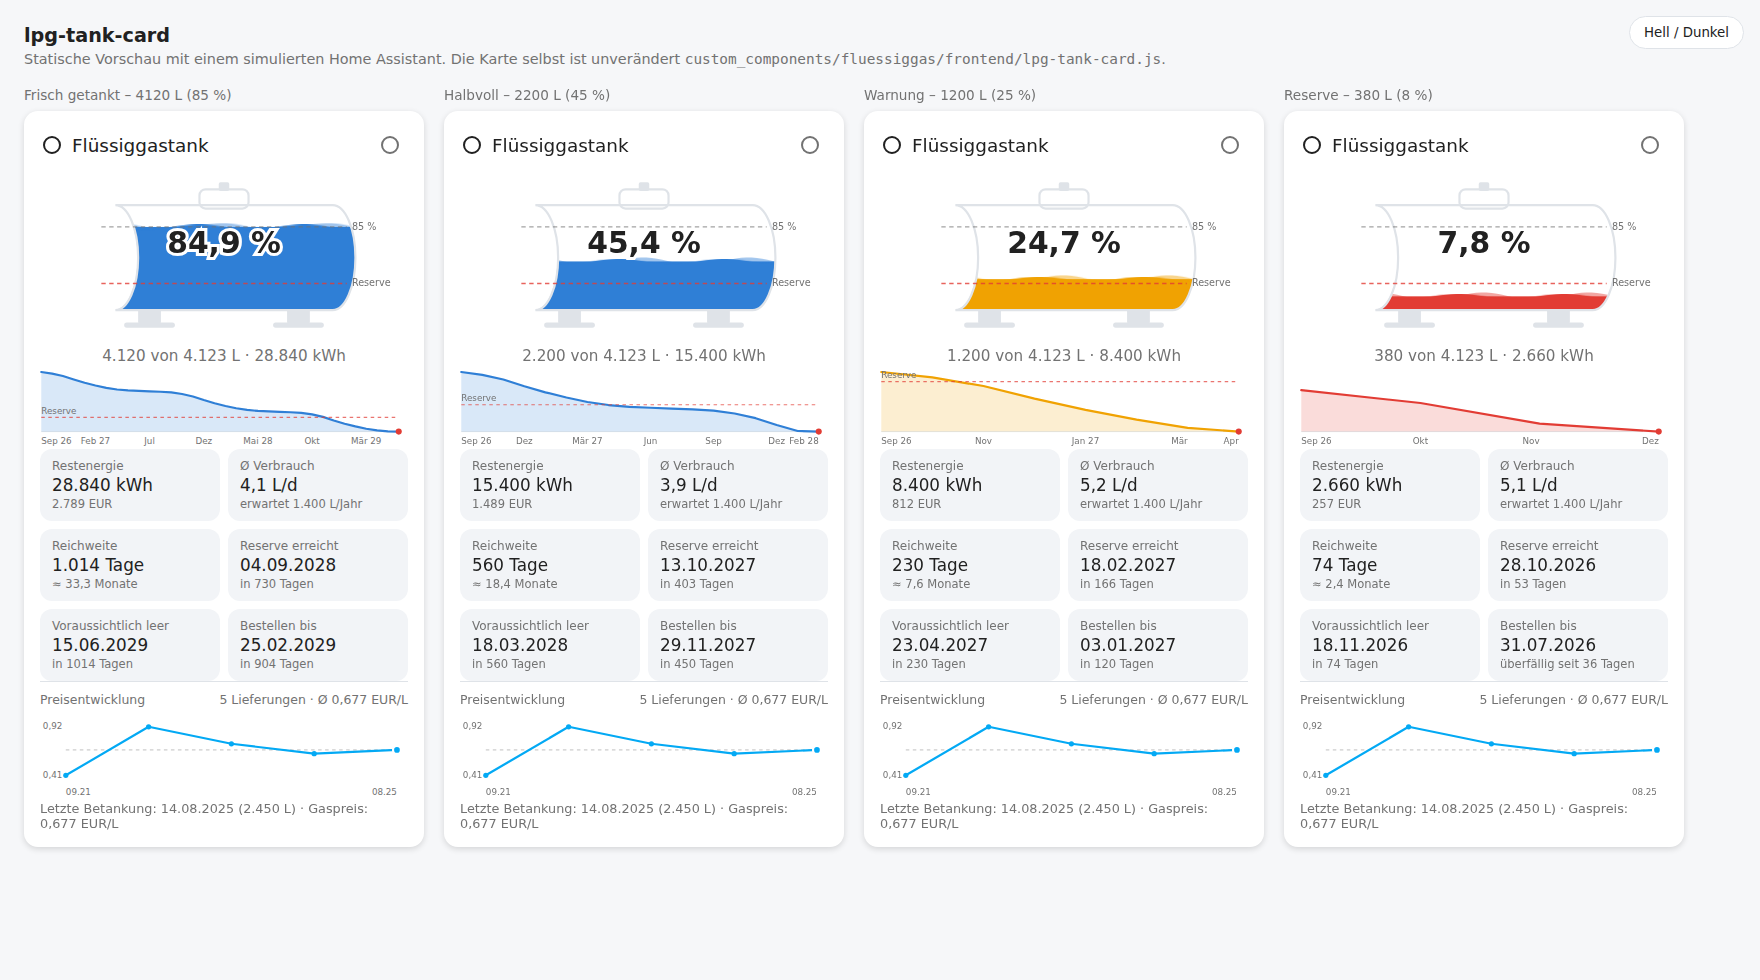
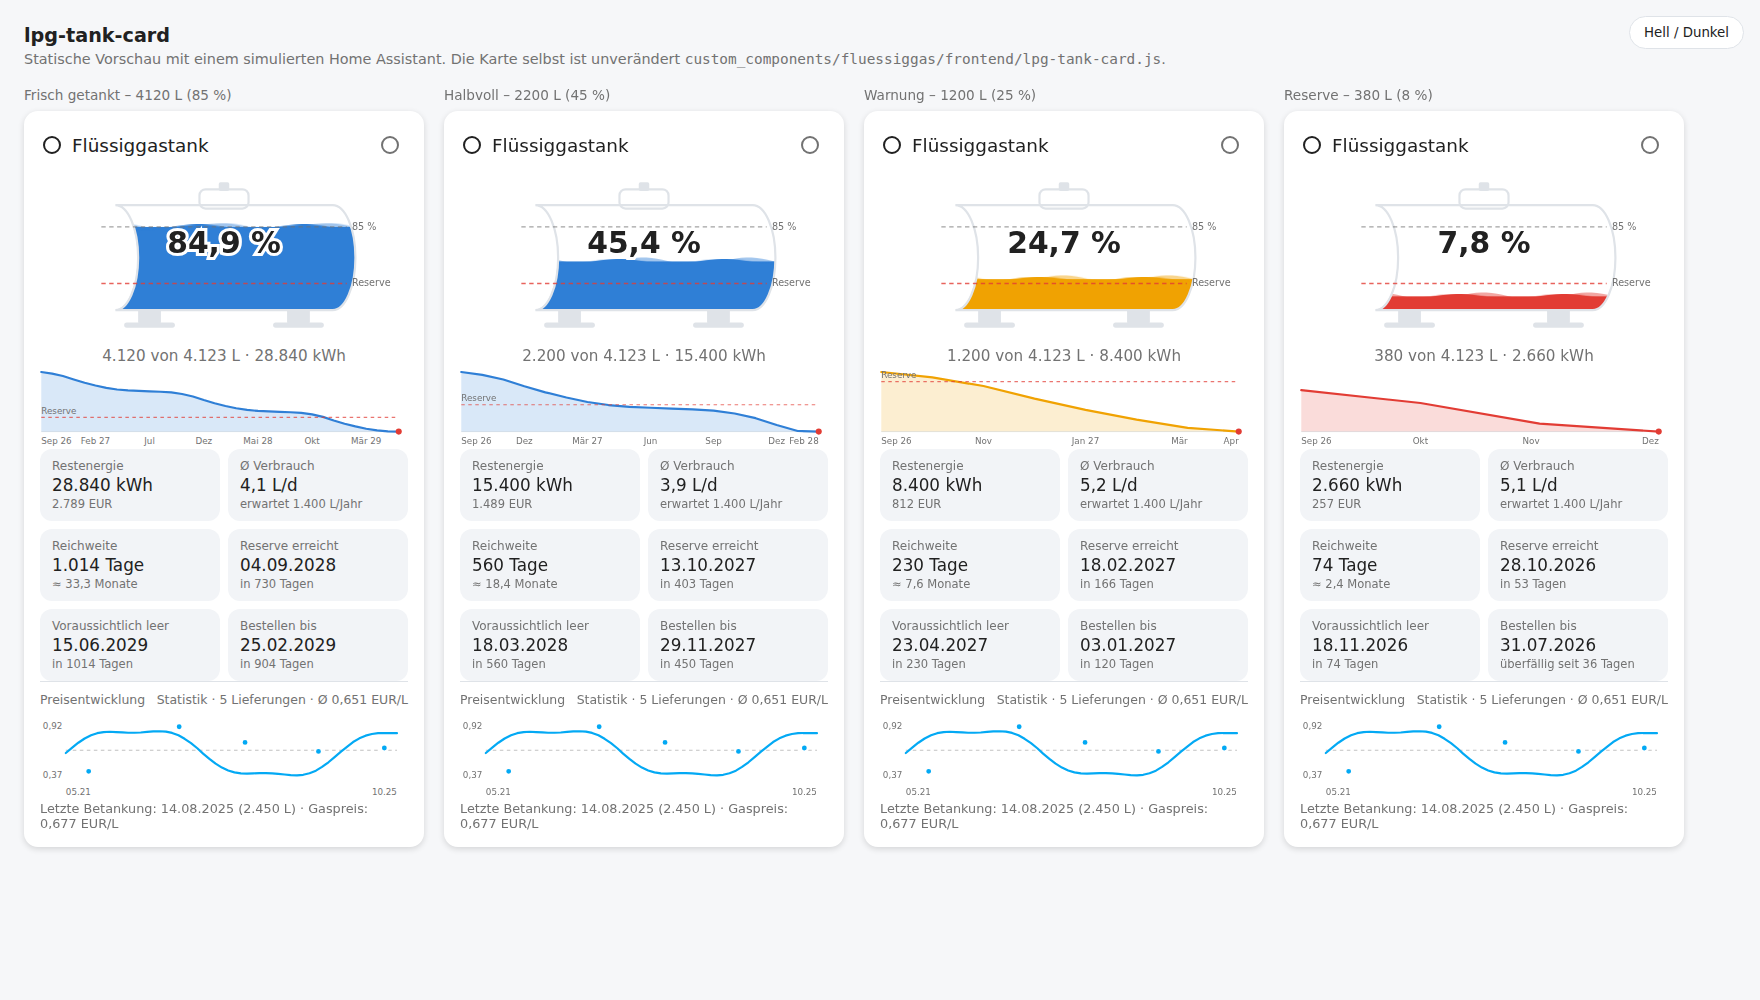
Preisverlauf wahlweise aus vorhandener Langzeitstatistik
Neues optionales Feld "Preis-Statistik": ein Sensor, dessen Langzeitstatistik
den Preisverlauf in der Karte liefert - etwa der, den man ohnehin fürs
Energiedashboard pflegt. Damit muss niemand bei null anfangen, nur weil die
Integration neu ist.

Gelesen wird ausschließlich; ein Sensor lässt sich in Home Assistant nicht
setzen, weder von außen noch von hier. Den Preis selbst setzt weiterhin der
Preis-Helfer, der eine input_number oder number sein muss. Beide Felder sind
unabhängig voneinander optional.

Die Abfrage läuft im Koordinator, nicht im Frontend: Sie hängt am selben
Sechs-Stunden-Takt wie das Monatsprofil, weil beides teure Statistikabfragen
sind, und liefert das Ergebnis als Attribut am Preissensor. Die Karte bleibt
damit frei von eigenen Datenbankzugriffen. Steht die Statistik in EUR/m³, wird
mit dem kalibrierten Faktor in EUR/L umgerechnet; die Einheit kommt aus den
Statistik-Metadaten, nicht aus der Anzeige.

Das Diagramm hat jetzt eine echte Zeitachse statt gleichmäßiger Abstände. Die
Betankungen liegen als Punkte auf der Linie - man sieht damit, ob man über oder
unter dem Verlauf gekauft hat. Ohne Statistik-Sensor bleibt es beim Verlauf aus
den Lieferungen, das Nachtragen alter Lieferungen funktioniert unverändert.

Claude-Session: https://claude.ai/code/session_0116cQYFWHYwN5ejBXDYbpBk

diff --git a/custom_components/fluessiggas/frontend/lpg-tank-card.js b/custom_components/fluessiggas/frontend/lpg-tank-card.js
@@ -774,50 +774,75 @@ class LpgTankCard extends HTMLElement {
     const block = this._el.preisblock;
     const svg = this._el.preise;
     if (!block || !svg) return;
+    const c = this._config;
 
-    const historie = (letzte && letzte.attributes && letzte.attributes.lieferungen) || [];
-    const punkte = historie
-      .filter((l) => l && l.preis_pro_liter != null && !isNaN(parseFloat(l.preis_pro_liter)))
-      .map((l) => ({ datum: this._parse(l.datum), preis: parseFloat(l.preis_pro_liter),
-                     liter: l.liter }))
-      .filter((l) => l.datum);
+    // Linie: bevorzugt die Langzeitstatistik des konfigurierten Preis-Sensors,
+    // sonst die eigenen Lieferungen. Die Betankungen liegen als Punkte oben
+    // drauf - man sieht damit, ob man über oder unter dem Verlauf gekauft hat.
+    const attr = (this._zustand("gaspreis") || {}).attributes || {};
+    const statistik = (attr.preisverlauf || [])
+      .map((p) => ({ t: this._monat(p.monat), preis: parseFloat(p.preis) }))
+      .filter((p) => p.t && !isNaN(p.preis));
 
-    if (!this._config.preisverlauf || punkte.length < 2) { block.hidden = true; return; }
+    const lieferungen = ((letzte && letzte.attributes && letzte.attributes.lieferungen) || [])
+      .map((l) => ({
+        datum: l && l.datum ? this._parse(l.datum) : null,
+        preis: parseFloat(l && l.preis_pro_liter),
+        liter: l && l.liter,
+      }))
+      .filter((l) => l.datum && !isNaN(l.preis))
+      .map((l) => ({ t: l.datum.getTime(), preis: l.preis, liter: l.liter }));
+
+    const ausStatistik = statistik.length >= 2;
+    const linie = (ausStatistik ? statistik : lieferungen).slice().sort((a, b) => a.t - b.t);
+    if (!c.preisverlauf || linie.length < 2) { block.hidden = true; return; }
     block.hidden = false;
 
-    const preise = punkte.map((p) => p.preis);
+    const alle = linie.concat(lieferungen);
+    const tMin = Math.min(...alle.map((p) => p.t));
+    const tMax = Math.max(...alle.map((p) => p.t));
+    const tSpanne = Math.max(tMax - tMin, 86400000);
+    const preise = alle.map((p) => p.preis);
     const min = Math.min(...preise), max = Math.max(...preise);
     const spanne = Math.max(max - min, 0.01);
+
     const B = 420, H = 104, l = 34, r = 8, o = 12, u = 20;
-    const x = (i) => l + (i / (punkte.length - 1)) * (B - l - r);
+    const x = (t) => l + ((t - tMin) / tSpanne) * (B - l - r);
     const y = (v) => o + (1 - (v - min + spanne * 0.15) / (spanne * 1.3)) * (H - o - u);
 
-    const linie = punkte.map((p, i) => `${i ? "L" : "M"} ${x(i).toFixed(1)},${y(p.preis).toFixed(1)}`).join(" ");
-    const schnitt = preise.reduce((a, b) => a + b, 0) / preise.length;
+    const pfad = linie
+      .map((p, i) => `${i ? "L" : "M"} ${x(p.t).toFixed(1)},${y(p.preis).toFixed(1)}`)
+      .join(" ");
+    const schnitt = linie.reduce((a, p) => a + p.preis, 0) / linie.length;
 
-    const dots = punkte.map((p, i) =>
-      `<circle class="${i === punkte.length - 1 ? "p-punkt-letzt" : "p-punkt"}" ` +
-      `cx="${x(i).toFixed(1)}" cy="${y(p.preis).toFixed(1)}" r="${i === punkte.length - 1 ? 4.5 : 3}">` +
-      `<title>${this._datumText(p.datum)}: ${this._fmt(p.preis, 3, "EUR/L")}` +
+    const punkte = lieferungen.map((p) =>
+      `<circle class="p-punkt-letzt" cx="${x(p.t).toFixed(1)}" cy="${y(p.preis).toFixed(1)}" r="4">` +
+      `<title>${this._datumText(new Date(p.t))}: ${this._fmt(p.preis, 3, "EUR/L")}` +
       `${p.liter ? ` · ${this._fmt(p.liter, 0, "L")}` : ""}</title></circle>`).join("");
 
-    const beschriftung = punkte.map((p, i) => {
-      if (i !== 0 && i !== punkte.length - 1) return "";
-      const lang = (this._hass.locale && this._hass.locale.language) || "de";
-      return `<text class="p-text" x="${x(i).toFixed(1)}" y="${H - 6}" text-anchor="${
-        i === 0 ? "start" : "end"}">${p.datum.toLocaleDateString(lang,
-          { month: "2-digit", year: "2-digit" })}</text>`;
-    }).join("");
+    const lang = (this._hass.locale && this._hass.locale.language) || "de";
+    const kurz = (t) => new Date(t).toLocaleDateString(lang, { month: "2-digit", year: "2-digit" });
 
     svg.innerHTML = `
       <line class="p-schnitt" x1="${l}" y1="${y(schnitt).toFixed(1)}" x2="${B - r}" y2="${y(schnitt).toFixed(1)}"/>
       <text class="p-text" x="${l - 4}" y="${(y(max) + 3).toFixed(1)}" text-anchor="end">${this._fmt(max, 2)}</text>
       <text class="p-text" x="${l - 4}" y="${(y(min) + 3).toFixed(1)}" text-anchor="end">${this._fmt(min, 2)}</text>
-      <path class="p-linie" d="${linie}"/>${dots}${beschriftung}`;
+      <path class="p-linie" d="${pfad}"/>${punkte}
+      <text class="p-text" x="${l}" y="${H - 6}">${kurz(tMin)}</text>
+      <text class="p-text" x="${B - r}" y="${H - 6}" text-anchor="end">${kurz(tMax)}</text>`;
 
-    this._el["preis-spanne"].textContent =
-      `${punkte.length} Lieferungen · Ø ${this._fmt(schnitt, 3, "EUR/L")}`;
+    const anzahl = lieferungen.length;
+    this._el["preis-spanne"].textContent = ausStatistik
+      ? `Statistik · ${anzahl} ${anzahl === 1 ? "Lieferung" : "Lieferungen"} · Ø ${this._fmt(schnitt, 3, "EUR/L")}`
+      : `${anzahl} ${anzahl === 1 ? "Lieferung" : "Lieferungen"} · Ø ${this._fmt(schnitt, 3, "EUR/L")}`;
   }
+
+  /** "2024-01" auf die Monatsmitte legen, damit die Punkte mittig sitzen. */
+  _monat(text) {
+    const treffer = /^(\d{4})-(\d{2})$/.exec(String(text || ""));
+    return treffer ? new Date(Number(treffer[1]), Number(treffer[2]) - 1, 15).getTime() : null;
+  }
+
 
   /** "in 74 Tagen" bzw. "heute" / "überfällig seit 3 Tagen". */
   _inTagen(d, ueberfaellig = "vorbei") {

diff --git a/docs/preview.html b/docs/preview.html
@@ -95,6 +95,20 @@ function monatsVorschau(liter) {
   return out;
 }
 
+/* Simulierte Langzeitstatistik: 54 Monatswerte in EUR/L */
+function preisStatistik() {
+  const werte = [];
+  let jahr = 2021, monat = 4;
+  for (let i = 0; i < 54; i++) {
+    const wellen = 0.62 + 0.28 * Math.sin(i / 7) + 0.05 * Math.sin(i / 2.3);
+    werte.push({ monat: `${jahr}-${String(monat + 1).padStart(2, "0")}`,
+                 preis: Math.round(wellen * 1000) / 1000 });
+    monat++;
+    if (monat === 12) { monat = 0; jahr++; }
+  }
+  return werte;
+}
+
 function hassMit(tankId, liter, tageBisLeer) {
   const nenn = 4850, maxP = 85, kwhL = 7.0, preis = 0.677;
   const nutzbar = nenn * maxP / 100;
@@ -124,7 +138,11 @@ function hassMit(tankId, liter, tageBisLeer) {
       e("reichweite", tageBisLeer, { monate }),
       e("leer_am", inTagen(tageBisLeer)),
       e("bestellen_bis", inTagen(tageBisLeer - 110)),
-      e("gaspreis", preis.toFixed(3)),
+      e("gaspreis", preis.toFixed(3), {
+        liter_pro_m3: 3.92,
+        statistik_quelle: "sensor.gaspreis_eur_m3",
+        preisverlauf: preisStatistik(),
+      }),
       e("jahresverbrauch", 1400),
       e("reserve_am", inTagen(Math.round(tageBisLeer * 0.72))),
       e("letzte_betankung", "2025-08-14", {

diff --git a/custom_components/fluessiggas/coordinator.py b/custom_components/fluessiggas/coordinator.py
@@ -37,6 +37,7 @@ from .const import (
     CONF_MAX_FILL,
     CONF_PRICE,
     CONF_PRICE_ENTITY,
+    CONF_PRICE_STATS,
     CONF_PROFILE_YEARS,
     CONF_RESERVE,
     CONF_SOURCE_UNIT,
@@ -127,6 +128,7 @@ class TankCoordinator(DataUpdateCoordinator[TankState]):
         self._profile: Profile | None = None
         self._profile_read: datetime | None = None
         self._profile_task = None
+        self._price_history: list[dict[str, Any]] = []
         self._units: dict[str, str] = {}
         self._units_read: datetime | None = None
         self._gemeldet: set[str] = set()
@@ -169,6 +171,16 @@ class TankCoordinator(DataUpdateCoordinator[TankState]):
     def price_entity(self) -> str | None:
         """Optionaler vorhandener Preis-Helfer in Home Assistant."""
         return self.option(CONF_PRICE_ENTITY, None) or None
+
+    @property
+    def price_stats_entity(self) -> str | None:
+        """Sensor, aus dessen Langzeitstatistik der Preisverlauf gezeichnet wird."""
+        return self.option(CONF_PRICE_STATS, None) or None
+
+    @property
+    def price_history(self) -> list[dict[str, Any]]:
+        """Monatlicher Preisverlauf in EUR/L, aus der Langzeitstatistik."""
+        return self._price_history
 
     @property
     def price(self) -> float:
@@ -422,6 +434,59 @@ class TankCoordinator(DataUpdateCoordinator[TankState]):
         )
         return profil
 
+    async def _async_read_price_history(self) -> list[dict[str, Any]]:
+        """Monatswerte des Preis-Sensors aus der Langzeitstatistik holen.
+
+        Nur lesend – der Sensor gehört weiterhin dem, der ihn bereitstellt.
+        Steht er in EUR/m³, wird mit dem kalibrierten Faktor in EUR/L
+        umgerechnet, damit der Verlauf zur übrigen Anzeige passt.
+        """
+        if not (entity_id := self.price_stats_entity):
+            return []
+
+        recorder = get_instance(self.hass)
+        start = dt_util.utcnow() - timedelta(days=365 * 6)
+        zeilen = await recorder.async_add_executor_job(
+            statistics_during_period,
+            self.hass, start, None, {entity_id}, "month", None, {"mean", "state"},
+        )
+        reihe = zeilen.get(entity_id) or []
+        if not reihe:
+            _LOGGER.debug("Keine Preisstatistik für %s gefunden", entity_id)
+            return []
+
+        faktor = 1 / self.liter_per_m3 if await self._async_price_stats_is_volume(entity_id) else 1.0
+        verlauf: list[dict[str, Any]] = []
+        for zeile in reihe:
+            wert = zeile.get("mean")
+            if wert is None:
+                wert = zeile.get("state")
+            if wert is None:
+                continue
+            zeitpunkt = dt_util.as_local(dt_util.utc_from_timestamp(zeile["start"]))
+            verlauf.append(
+                {
+                    "monat": f"{zeitpunkt.year:04d}-{zeitpunkt.month:02d}",
+                    "preis": round(float(wert) * faktor, 4),
+                }
+            )
+        return verlauf[-72:]
+
+    async def _async_price_stats_is_volume(self, entity_id: str) -> bool:
+        """Steht die Preisstatistik je m³ statt je Liter?"""
+        try:
+            metadaten = await async_list_statistic_ids(self.hass, {entity_id})
+        except Exception:  # pragma: no cover - Recorder noch nicht bereit
+            metadaten = []
+        einheit = ""
+        for eintrag in metadaten:
+            if eintrag.get("statistic_id") == entity_id:
+                einheit = eintrag.get("statistics_unit_of_measurement") or ""
+                break
+        if not einheit and (zustand := self.hass.states.get(entity_id)):
+            einheit = zustand.attributes.get("unit_of_measurement") or ""
+        return any(marke in einheit.strip().lower() for marke in PRICE_UNITS_VOLUME)
+
     # ------------------------------------------------------------ Speicher
 
     async def async_load(self) -> None:
@@ -522,6 +587,14 @@ class TankCoordinator(DataUpdateCoordinator[TankState]):
         )
 
     async def _async_profil_laden(self) -> None:
+        # Der Preisverlauf hängt am selben Takt: beides sind teure
+        # Statistikabfragen, die nicht in den Aktualisierungspfad gehören.
+        try:
+            self._price_history = await self._async_read_price_history()
+        except Exception:
+            _LOGGER.warning("Preisverlauf konnte nicht gelesen werden", exc_info=True)
+            self._price_history = []
+
         try:
             profil = await self._async_read_profile()
         except Exception:

diff --git a/custom_components/fluessiggas/config_flow.py b/custom_components/fluessiggas/config_flow.py
@@ -24,6 +24,7 @@ from .const import (
     CONF_MAX_FILL,
     CONF_PRICE,
     CONF_PRICE_ENTITY,
+    CONF_PRICE_STATS,
     CONF_PROFILE_YEARS,
     CONF_RESERVE,
     CONF_WARN_PERCENT,
@@ -88,6 +89,7 @@ def _optionale_leeren(user_input: dict[str, Any]) -> dict[str, Any]:
     """Nicht ausgefüllte optionale Felder ausdrücklich auf None setzen."""
     daten = dict(user_input)
     daten.setdefault(CONF_PRICE_ENTITY, None)
+    daten.setdefault(CONF_PRICE_STATS, None)
     return daten
 
 
@@ -109,6 +111,11 @@ def _details_schema() -> vol.Schema:
                 selector.EntitySelectorConfig(
                     domain=["input_number", "number"], multiple=False
                 )
+            ),
+            # Nur gelesen, deshalb hier ausdrücklich ein Sensor: aus dessen
+            # Langzeitstatistik zeichnet die Karte den Preisverlauf.
+            vol.Optional(CONF_PRICE_STATS): selector.EntitySelector(
+                selector.EntitySelectorConfig(domain="sensor", multiple=False)
             ),
             vol.Required(CONF_RESERVE, default=DEFAULT_RESERVE): _zahl(0, 5000, 10, "L"),
             vol.Required(CONF_WARN_PERCENT, default=DEFAULT_WARN_PERCENT): _zahl(0, 100, 1, "%"),

diff --git a/custom_components/fluessiggas/sensor.py b/custom_components/fluessiggas/sensor.py
@@ -103,6 +103,8 @@ SENSOREN: tuple[TankSensorDescription, ...] = (
             "preis_pro_m3": round(s.price * c.liter_per_m3, 4),
             # damit eigene Templates den kalibrierten Faktor mitbenutzen können
             "liter_pro_m3": round(c.liter_per_m3, 3),
+            "statistik_quelle": c.price_stats_entity,
+            "preisverlauf": c.price_history,
         },
     ),
     TankSensorDescription(

diff --git a/custom_components/fluessiggas/const.py b/custom_components/fluessiggas/const.py
@@ -15,6 +15,7 @@ CONF_LITER_PER_M3: Final = "liter_per_m3"
 CONF_KWH_PER_LITER: Final = "kwh_per_liter"
 CONF_PRICE: Final = "price_per_liter"
 CONF_PRICE_ENTITY: Final = "price_entity"
+CONF_PRICE_STATS: Final = "price_stats_entity"
 CONF_RESERVE: Final = "reserve"
 CONF_LEAD_TIME: Final = "lead_time"
 CONF_PROFILE_YEARS: Final = "profile_years"

diff --git a/docs/INSTALLATION.md b/docs/INSTALLATION.md
@@ -58,6 +58,7 @@ bereits herausgerechnet hat.
 | Vorhandener Preis-Helfer | leer | Optional, und **nur eine `input_number` oder `number`** – kein Template-Sensor (siehe Schritt 6). Steht der Helfer in EUR/m³, wird selbst umgerechnet. Leer lassen → die Integration legt eine eigene Zahl an. |
 | Reserve | 970 L | 20 % vom Nennvolumen. Ab hier gilt der Tank als leer – und die Karte färbt rot. |
 | Warnschwelle der Karte | 30 % | Unter diesem Wert der Tankuhr wird der Tank gelb. |
+| Preis-Statistik | leer | Optional. Ein **Sensor** mit Langzeitstatistik deines Gaspreises; die Karte zeichnet daraus den Preisverlauf. Wird nur gelesen. |
 | Vorlaufzeit | 21 d | Zeit vom Bestellen bis zum Tankwagen. |
 | Mittelung über Jahre | 2 | Über wie viele Jahre je Kalendermonat gemittelt wird. |
 | Korrekturfaktor | 100 % | Skaliert die ganze Prognose, z. B. nach einer Dämmung. |
@@ -145,6 +146,14 @@ darstellen lässt – eine `input_number` allein kann das nicht.
 
 Der Preis einer bereits eingetragenen Lieferung ist ein fester Schnappschuss und
 ändert sich nie mehr, egal wie sich der aktuelle Gaspreis danach entwickelt.
+
+**Preisverlauf aus vorhandener Statistik:** Hast du bereits einen Preis-Sensor
+mit Historie – etwa den fürs Energiedashboard –, trag ihn zusätzlich im Feld
+*Preis-Statistik* ein. Dann zeichnet die Karte den Verlauf aus dessen
+Langzeitstatistik statt aus deinen Lieferungen, rechnet EUR/m³ automatisch in
+EUR/L um, und deine Betankungen liegen als Punkte auf der Linie. Gelesen wird
+der Sensor nur – setzen lässt sich ein Sensor in Home Assistant ohnehin nicht.
+Ohne Eintrag bleibt es beim Verlauf aus den Lieferungen.
 
 ## 7. Monatsprofil prüfen
 

diff --git a/README.md b/README.md
@@ -156,6 +156,20 @@ zwar als **fester Schnappschuss**: Der Preis einer vergangenen Lieferung ändert
 sich nie mehr, auch wenn der aktuelle Gaspreis später steigt oder fällt. Genau
 das macht die Preisentwicklung in der Karte aussagekräftig.
 
+### Preisverlauf aus vorhandener Statistik
+
+Wer schon einen Preis-Sensor mit Langzeitstatistik pflegt – etwa für das
+Energiedashboard –, trägt ihn im Feld *Preis-Statistik* ein. Die Karte zeichnet
+den Verlauf dann aus dessen Historie statt aus den Lieferungen und rechnet
+EUR/m³ selbst in EUR/L um. Die eingetragenen Betankungen liegen als Punkte auf
+der Linie: Man sieht auf einen Blick, ob man über oder unter dem Verlauf gekauft
+hat.
+
+Der Sensor wird dabei **ausschließlich gelesen** und nie verändert – Sensoren
+lassen sich in Home Assistant grundsätzlich nicht beschreiben. Den Preis selbst
+setzt weiterhin der Preis-Helfer. Ohne Eintrag bleibt alles wie gehabt und die
+Karte zeichnet die Lieferungen.
+
 ## Wie die Prognose rechnet
 
 Ein Tagesdurchschnitt taugt nicht – im Januar geht rund zehnmal so viel weg wie
